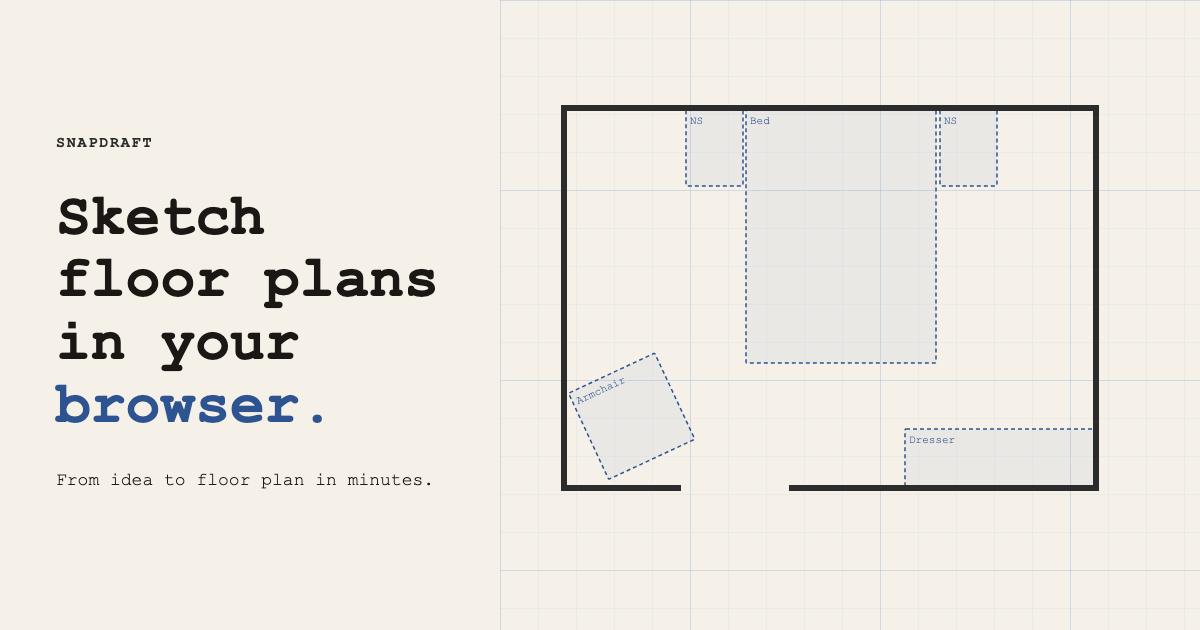
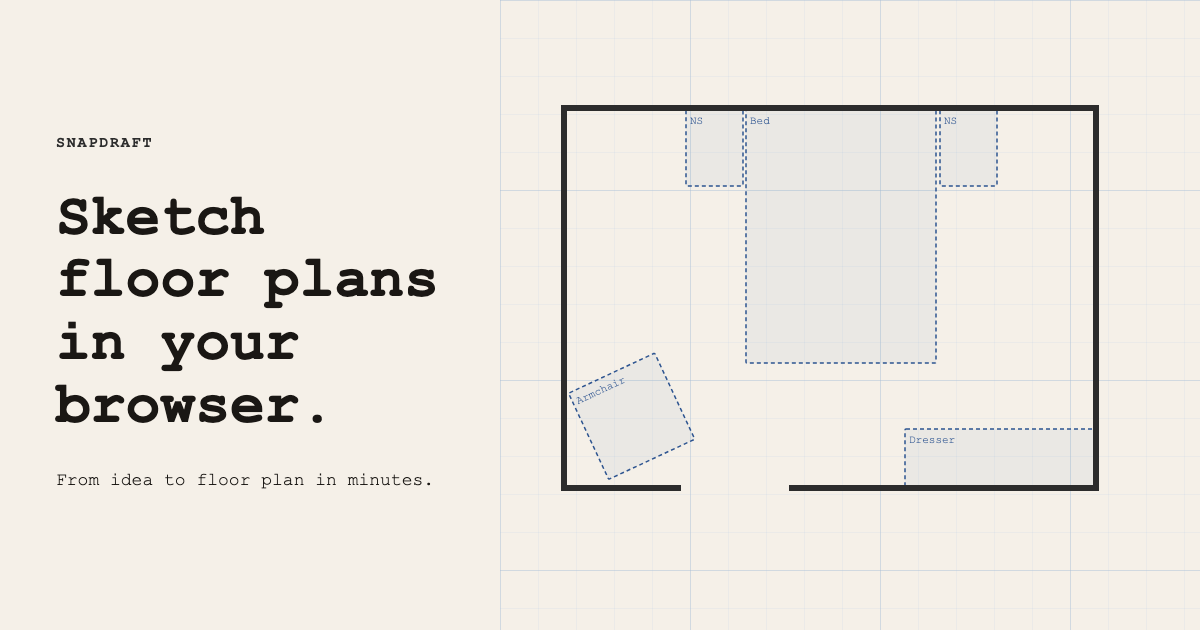
fix: remove emphasis from headline text for consistency

Changed region(s): [[0.0308, 0.6032, 0.2467, 0.6937]]

diff --git a/scripts/og-image/og-image.html b/scripts/og-image/og-image.html
@@ -43,11 +43,6 @@
         margin-bottom: 28px;
       }
 
-      .headline em {
-        font-style: normal;
-        color: #2d5490;
-      }
-
       .tagline {
         font-family: 'Courier New', monospace;
         font-size: 18px;
@@ -69,7 +64,7 @@
   <body>
     <div class="left">
       <div class="logo">SnapDraft</div>
-      <div class="headline">Sketch<br/>floor plans<br/>in your<br/><em>browser.</em></div>
+      <div class="headline">Sketch<br/>floor plans<br/>in your<br/> browser.</div>
       <div class="tagline">From idea to floor plan in minutes.</div>
     </div>
 